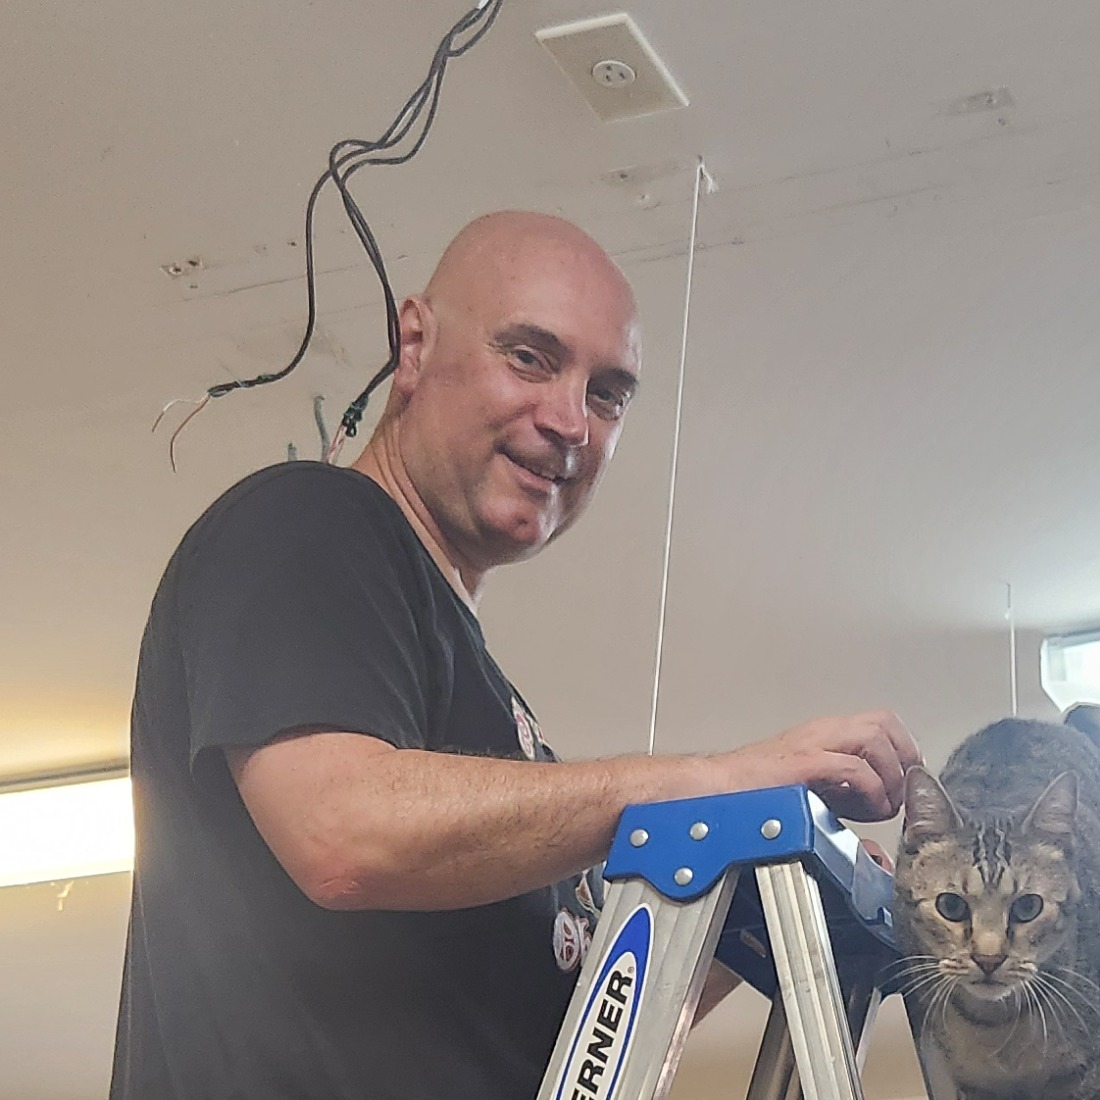
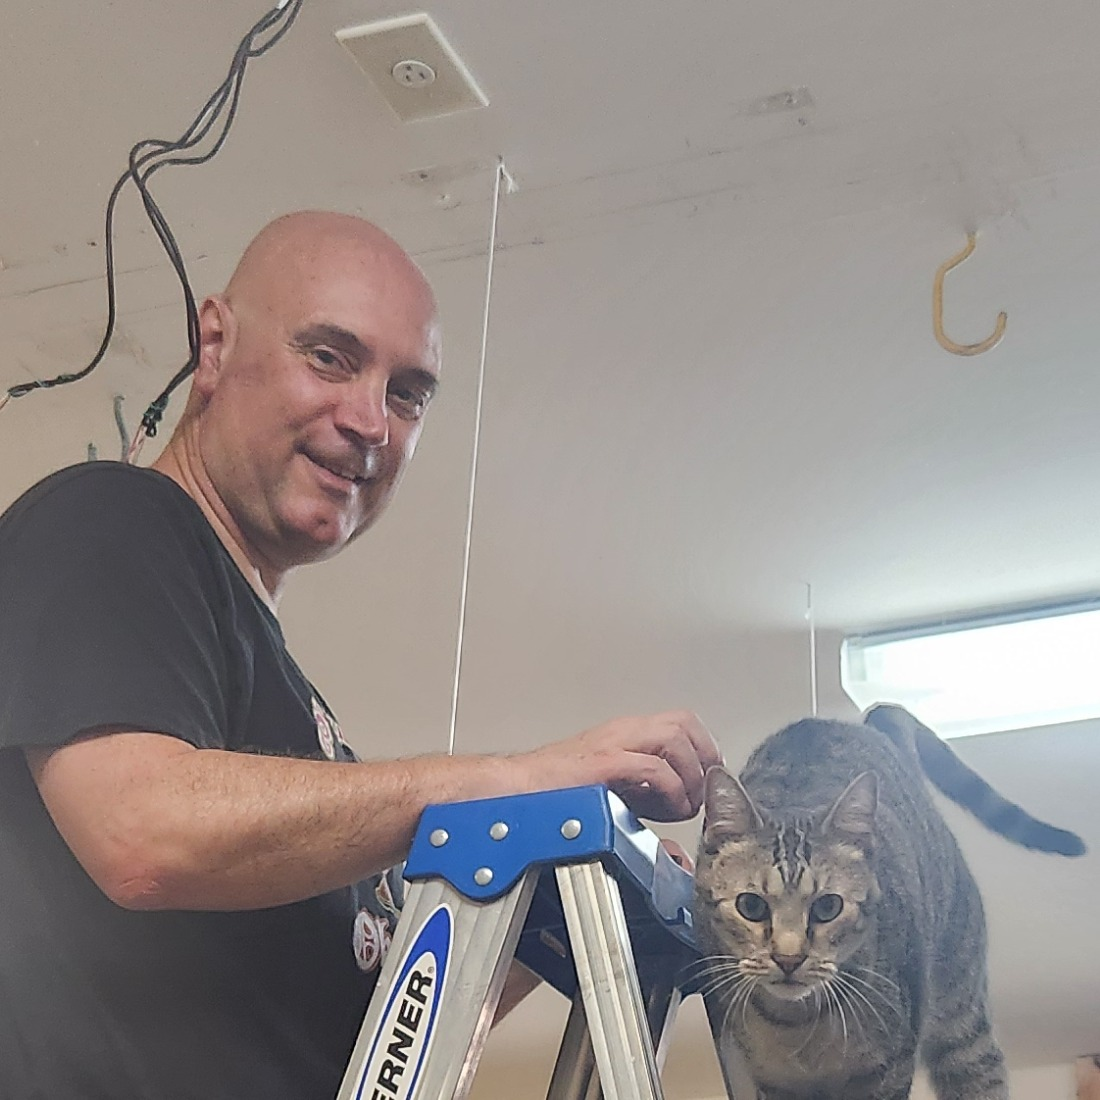
Shift photo crop to show full Zeke, add border and tagline
Moved crop rightward so both of Zeke's ears are in frame. Added
a subtle border around the photo and an italic tagline about
YouTube University and partnering with AI.

diff --git a/layouts/partials/home/custom.html b/layouts/partials/home/custom.html
@@ -16,7 +16,7 @@
           {{ $final = $authorImage.Fill (print "480x480 q" ( $.Site.Params.Author.imagequality | default "96" )) }}
         {{ end }}
         <img
-          class="shrink-0 w-48 h-48 rounded-lg object-cover"
+          class="shrink-0 w-48 h-48 rounded-lg border-2 border-neutral-200 dark:border-neutral-700 object-cover"
           width="192"
           height="192"
           alt="{{ $.Site.Params.Author.name | default `Author` }}"
@@ -32,6 +32,9 @@
           {{ . | markdownify }}
         </h2>
       {{ end }}
+      <p class="mt-1 text-sm italic text-neutral-500 dark:text-neutral-500">
+        Permanently enrolled in YouTube University and partnering with AI and others to get it done.
+      </p>
       {{ with .Content }}
         <div class="mt-3 text-neutral-600 dark:text-neutral-400">
           {{ . }}
